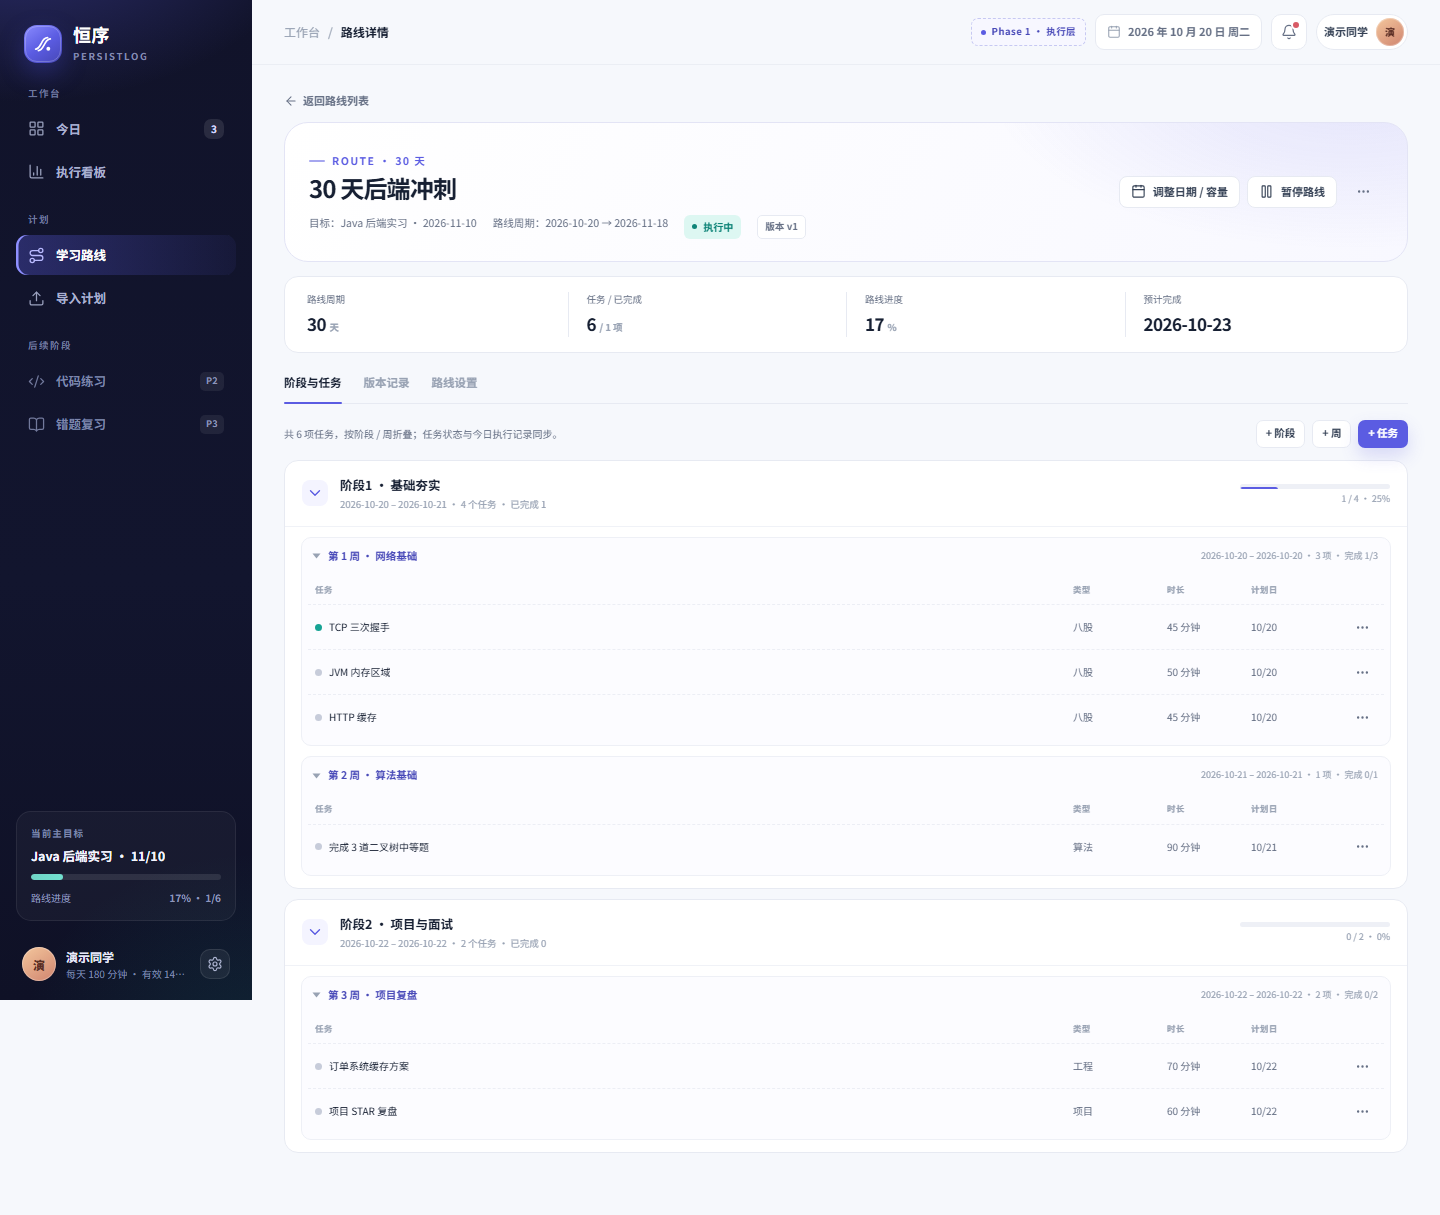
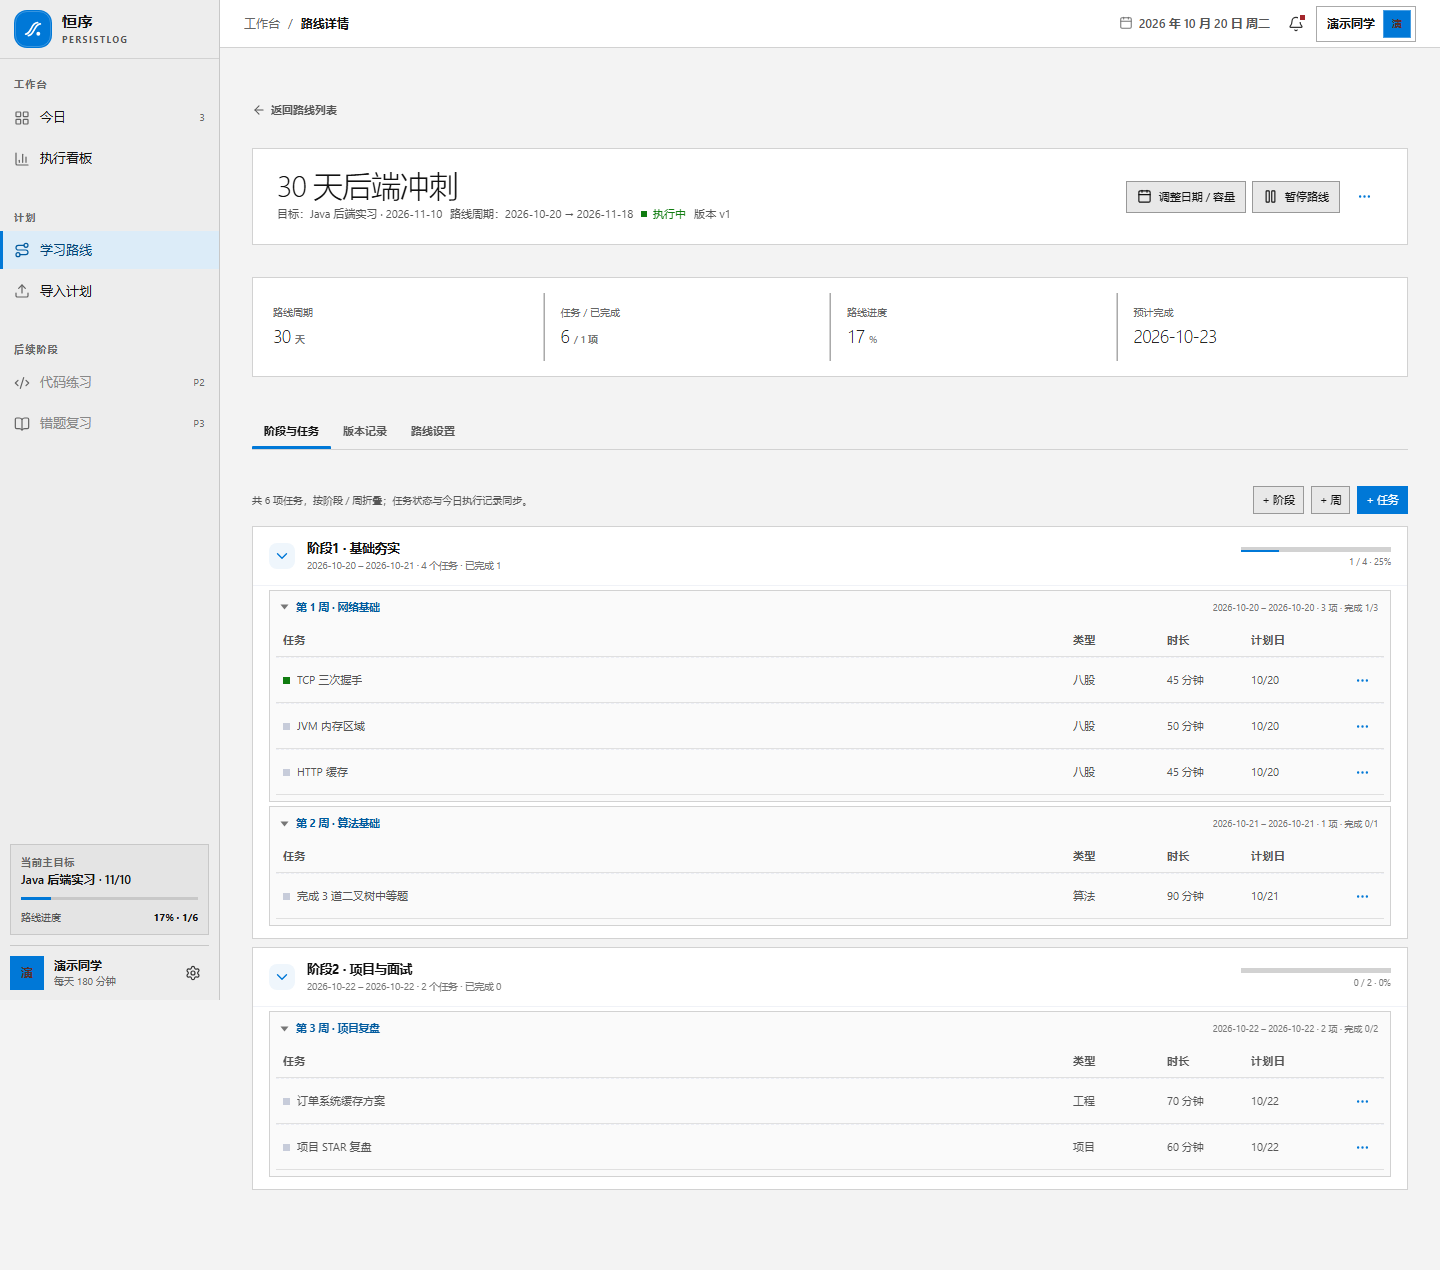
docs(frontend): document uwp skin and refresh screenshots

diff --git a/README.md b/README.md
@@ -1,7 +1,7 @@
 # 恒序 persistLog · Frontend
 
-**当前状态**：Phase 1 页面已完成，并完成前后端联调（登录、今日、导入、路线、看板、档案、通知读取）  
-**技术栈**：Next.js 16（App Router）+ React 19 + TypeScript + 原生 CSS  
+**当前状态**：Phase 1 页面已完成，并完成前后端联调；界面已切换为 UWP / Windows 10 风格  
+**技术栈**：Next.js 16（App Router）+ React 19 + TypeScript + `uwp_components` + 自定义 UWP 皮肤  
 **数据状态**：默认通过 Next.js rewrite `/api/v1/*` 调用本地 FastAPI；未登录时保留 mock 设计数据用于原型预览  
 **日期**：2026-10-20  
 **远程仓库**：<https://github.com/QingTong1-ops/PersistLog.git>  
@@ -84,9 +84,10 @@ pnpm dev
 ```text
 persistLogFrontend/
 ├─ app/
-│  ├─ layout.tsx                 # 根布局、Provider、全局样式
+│  ├─ layout.tsx                 # 根布局、UWP ThemeRoot、Provider
 │  ├─ page.tsx                   # 跳转 /today
-│  ├─ globals.css                # 设计 token + 组件样式 + 响应式
+│  ├─ globals.css                # 业务布局与旧版基础类
+│  ├─ uwp.css                    # UWP / Windows 10 皮肤与覆盖
 │  ├─ error.tsx / not-found.tsx
 │  ├─ (app)/
 │  │  ├─ layout.tsx              # 侧边栏 + 顶栏 + 移动端导航
@@ -99,9 +100,10 @@ persistLogFrontend/
 │     ├─ login/
 │     └─ onboarding/
 ├─ components/
+│  ├─ uwp-root.tsx               # ThemeRoot：win10 / light / compact
 │  ├─ app-shell.tsx              # 桌面侧边栏、顶栏、移动端导航、页面地图
 │  ├─ brand-mark.tsx
-│  ├─ ui.tsx                     # Button/Modal/Sheet/Toggle/Toast/进度等
+│  ├─ ui.tsx                     # UWP Button/Pivot/ProgressBar/ContentDialog 包装
 │  ├─ today/                     # 今日视图、任务行、任务抽屉、状态弹窗
 │  ├─ import/                    # 导入状态机
 │  ├─ routes/                    # 路线列表、路线详情
@@ -161,14 +163,14 @@ persistLogFrontend/
 
 ### 4.4 样式
 
-`app/globals.css` 从设计原型迁移：
+界面已从 SaaS 卡片风格切换为 UWP / Windows 10：
 
-- `--brand-*` / `--ink-*` / 状态色 token。
-- 卡片、按钮、标签、任务行、进度环、抽屉、弹窗、看板图表。
-- 桌面侧边栏 + 移动端底部导航。
-- `prefers-reduced-motion`、焦点环、状态文字 + 颜色。
-
-详细规范见 [design/visual-design.md](design/visual-design.md) 与 [design/page-spec.md](design/page-spec.md)。
+- `uwp_components/styles.css` 提供 Segoe UI、flat surface、accent、focus 与控件样式。
+- `components/uwp-root.tsx` 用 `ThemeRoot` 设置 `win10 + light + compact`。
+- `app/uwp.css` 移除旧版渐变、圆角、彩色胶囊和阴影，统一为方角、1px 边框、蓝色 `#0078d7` accent。
+- `components/ui.tsx` 的 Button / Segmented / ProgressBar / Modal / ConfirmDialog 使用 UWP 组件。
+- 信息层级收紧：隐藏 eyebrow / phase badge / colored tags，标签改为正文内联文本，页面标题与说明合并为一个头部。
+- 桌面侧边栏改为浅灰 UWP NavigationView 风格，移动端保留底部导航。
 
 ---
 
@@ -189,6 +191,7 @@ persistLogFrontend/
 | `docs`（上一轮） | API 客户端、环境变量、架构文档、README、截图 |
 | **本次联调** | Next rewrite、AuthProvider/SessionGate、真实 today/import/routes/dashboard/settings、API mappers、联调文档与截图 |
 | **Phase 1 收尾** | 空计划回填、`/today/items` 手动加任务、预览 PATCH、阶段/周进度、验收文档与截图 |
+| **UWP 视觉重构** | `uwp_components`、ThemeRoot、UWP Button/Pivot/ProgressBar/ContentDialog、`app/uwp.css`、所有页面方角扁平化 |
 
 原型与设计文档的历史仍保留在前面的 `ed45972` 提交。
 

diff --git a/docs/architecture.md b/docs/architecture.md
@@ -13,13 +13,14 @@
 | --- | --- |
 | 框架 | Next.js 16（App Router） |
 | UI | React 19 + TypeScript 5.9 |
-| 样式 | 原生 CSS（从设计原型迁移的 token / 组件类） |
+| 样式 | UWP / Windows 10：`uwp_components/styles.css` + `app/uwp.css` 覆盖层 |
+| 组件 | `uwp_components`（Button / Pivot / ProgressBar / ContentDialog） |
 | 图标 | lucide-react |
 | 包管理 | pnpm 12 |
 | 构建 | Turbopack（Next.js 默认） |
 | 校验 | ESLint 9 + `tsc --noEmit` |
 
-没有引入 Tailwind、组件库或状态管理库：Phase 1 页面数量和状态复杂度可控，原生 CSS + React Context 更容易保持设计还原度；后续如果数据缓存复杂，可引入 TanStack Query。
+没有引入 Tailwind 或状态管理库；业务布局仍用原生 CSS，UWP 组件与皮肤负责控件、surface、字体与状态。后续如果数据缓存复杂，可引入 TanStack Query。
 
 ---
 
@@ -66,7 +67,7 @@ app/layout.tsx（RootLayout）
 | `lib/store/` | 跨页面 today/routes/profile/授权状态 | 服务端持久化 |
 | `lib/api/` | fetch、Bearer、401 刷新、端点、映射 | UI 逻辑 |
 | `lib/mock-data.ts` | 未登录时的设计演示数据 | 生产数据 |
-| `app/globals.css` | 设计 token、组件、响应式 | 组件内联样式 |
+| `app/globals.css` / `app/uwp.css` | 业务布局、UWP 皮肤、组件覆盖 | 组件内联样式 |
 
 ---
 
@@ -179,10 +180,13 @@ notifications.channels / createChannel / updateChannel / deleteChannel /
 
 ## 6. 设计系统迁移
 
-- `design/prototype.css` → `app/globals.css`，保留 `--brand-*`、`--ink-*`、状态色、卡片、按钮、任务、看板等类名。
-- 原型 HTML 的语义结构迁移为 React 组件；未引入 CSS-in-JS。
+- 原 `design/prototype.css` 的 SaaS 渐变、圆角、彩色胶囊和阴影由 `app/uwp.css` 覆盖。
+- `components/uwp-root.tsx` 使用 `ThemeRoot`，固定 `win10 + light + compact`。
+- `uwp_components` 提供 Button、Pivot、ProgressBar、ContentDialog；`components/ui.tsx` 做业务适配。
+- 字体统一为 Segoe UI / Microsoft YaHei UI；accent 为 `#0078d7`；surface 为白底 1px 边框、方角。
+- eyebrow、phase badge、彩色标签等层级被移除或改为正文内联文本。
 - 图标由内联 sprite 改为 lucide-react，视觉尺寸/线宽保持一致。
-- 设计 token 修改只改 `:root`，不要在组件里散落色值。
+- 设计 token 修改优先改 `app/uwp.css` 的 `:root`，不要在组件里散落色值。
 
 ---
 
@@ -190,7 +194,7 @@ notifications.channels / createChannel / updateChannel / deleteChannel /
 
 | 断点 | 行为 |
 | --- | --- |
-| > 1200 | 252px 侧边栏 + 多列 |
+| > 1200 | 220px 侧边栏 + 多列 |
 | ≤ 1024 | 侧边栏收窄；今日/导入/看板单列 |
 | ≤ 860 | 隐藏侧边栏；顶部品牌 + 底部 4 导航 |
 | ≤ 640 | 任务两行、表单单列、设置导航 2×2、弹窗底部抽屉 |

diff --git a/docs/phase1-acceptance.md b/docs/phase1-acceptance.md
@@ -12,6 +12,8 @@
 
 Phase 1 前后端主链路已闭环，可以进入「真实使用 7 天」的收尾观察期。
 
+视觉基线已切换为 UWP / Windows 10：`uwp_components` + `ThemeRoot(win10, light, compact)` + `app/uwp.css`；移除了 SaaS 渐变、圆角、彩色胶囊与阴影，标签改为正文内联文本，页面头部合并 eyebrow 与说明。
+
 | 能力 | 状态 | 说明 |
 |---|---|---|
 | 注册 / 登录 / 刷新 / 登出 | ✅ | Access Token 内存，Refresh HttpOnly Cookie |
